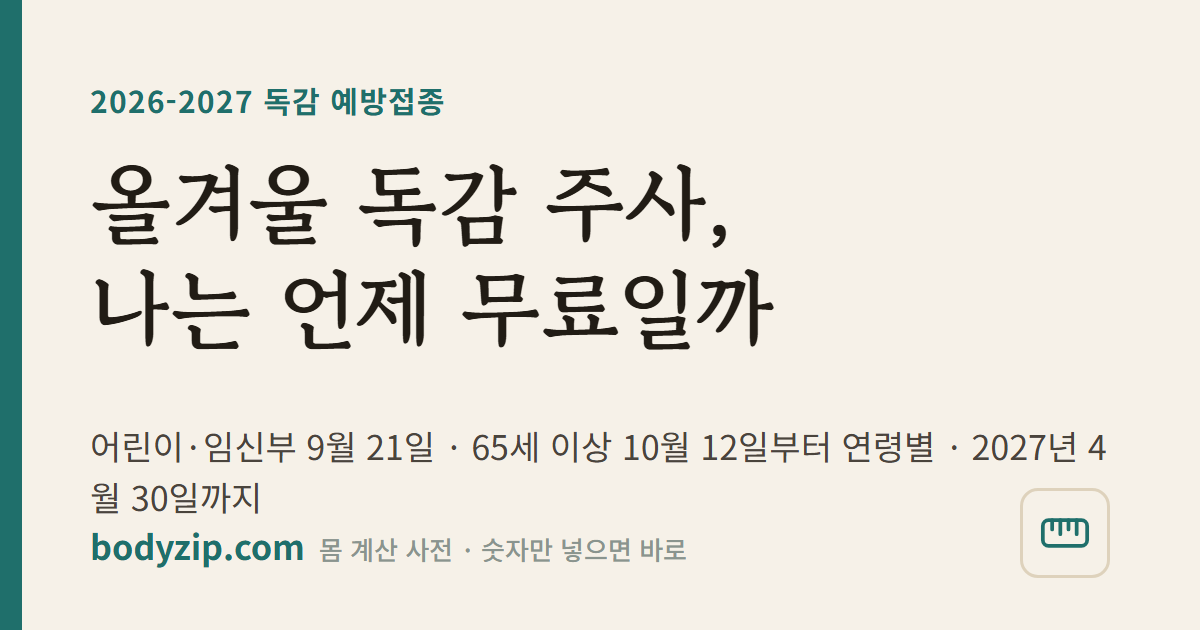
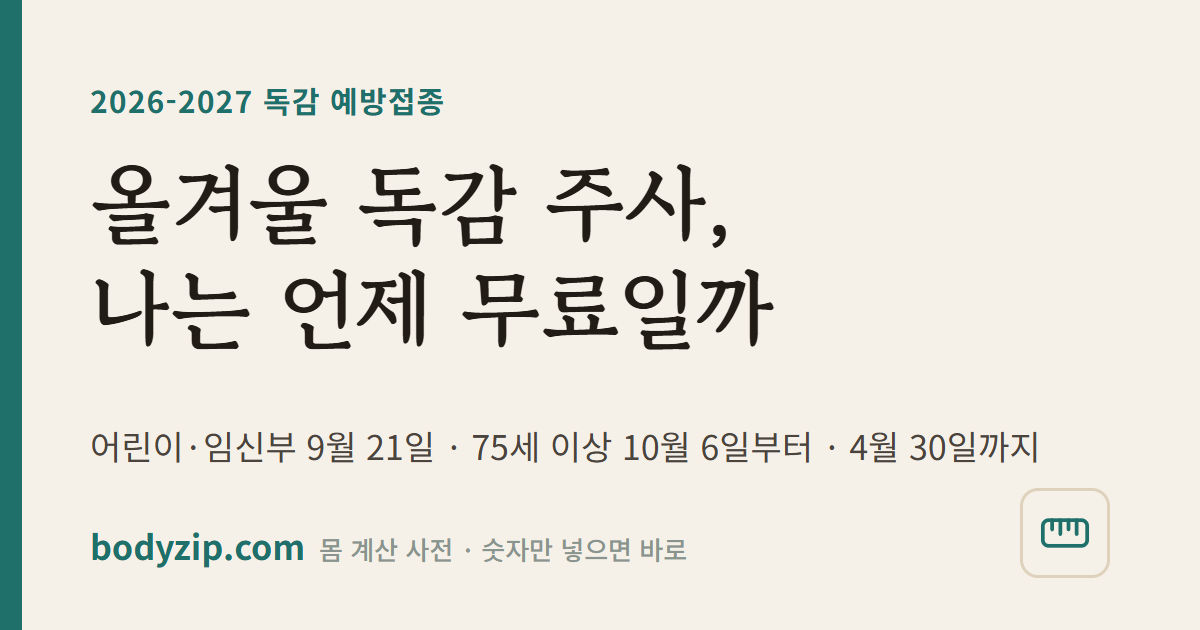
겨울 시즌 2 — 아기·어린이 정상 체온과 열 기준(/baby/temperature/) 새로 열고(잰 곳·나이·체온을 넣으면 정상·미열·열·바로 진료 — 대한소아청소년과학회 「소아 발열」의 직장 38℃ 발열·겨드랑이 37.3℃ 미열·38.0℃ 진찰·39.0℃ 고열·3개월 미만 열과 3~36개월 39℃ 이상, 서울대병원 「소아정상체온」의 직장 36.6~37.9℃ 정상·체온계 종류와 상관없이 37.8℃ 발열·35.5℃ 저체온, 응급실 신호는 서울아산병원 소아응급실 안내만, 재는 법·식약처 인증 체온계, 해열제는 /fever-medici

diff --git a/src/js/season.js b/src/js/season.js
@@ -1,4 +1,4 @@
-/* 철 페이지 계산 — [data-live="flu"] 독감 무료 대상·시작일, [data-live="checkup2026"] 올해 검진 대상·항목
+/* 철 페이지 계산 — [data-live="flu"] 독감 무료 대상·횟수·시작일, [data-live="checkup2026"] 올해 검진 대상·항목
  * 날짜·출생 범위는 tools/pages-season.mjs 의 FLU·CHK 와 같아야 한다 (해마다 함께 갱신). */
 (function () {
   function q(box, k) { return box.querySelector('[data-k="' + k + '"]'); }
@@ -14,42 +14,59 @@
 
   /* ---------- 독감 ---------- */
   var FLU = {
-    end: '2027-04-30', kidsFrom: '2012-01-01', kidsTo: '2026-08-31', kidsTwo: '2026-09-21', kidsOne: '2026-09-28', preg: '2026-09-21',
-    senior: [['75세 이상', '0000-00-00', '1951-12-31', '2026-10-12'], ['70~74세', '1952-01-01', '1956-12-31', '2026-10-15'], ['65~69세', '1957-01-01', '1961-12-31', '2026-10-19']],
-    covidStart: '2026-10-12', covidEnd: '2027-06-30'
+    end: '2027-04-30', kidsFrom: '2012-01-01', kidsTo: '2026-08-31', kidsStart: '2026-09-21', preg: '2026-09-21', onceBy: '2026.6.30',
+    senior: [['75세 이상', '0000-00-00', '1951-12-31', '2026-10-06'], ['70~74세', '1952-01-01', '1956-12-31', '2026-10-12'], ['65~69세', '1957-01-01', '1961-12-31', '2026-10-15']],
+    covid: { '75세 이상': '2026-10-12', '70~74세': '2026-10-12', '65~69세': '2026-10-15' }, covidEnd: '2027-06-30'
   };
+  function addMonthsIso(iso, n) {   /* 말일 넘침은 그 달 말일로 */
+    var p = iso.split('-').map(Number), y = p[0], m = p[1] - 1 + n, d = p[2];
+    y += Math.floor(m / 12); m = ((m % 12) + 12) % 12;
+    var last = new Date(Date.UTC(y, m + 1, 0)).getUTCDate();
+    return y + '-' + ('0' + (m + 1)).slice(-2) + '-' + ('0' + Math.min(d, last)).slice(-2);
+  }
   Array.prototype.forEach.call(document.querySelectorAll('[data-live="flu"]'), function (box) {
     bind(box, function () {
-      var b = q(box, 'birth').value, preg = q(box, 'preg').checked, today = todayIso();
-      if (!/^\d{4}-\d{2}-\d{2}$/.test(b)) { out(box, 'free', '—'); out(box, 'date', '—'); out(box, 'now', '—'); out(box, 'msg', '생년월일을 넣어 보세요.'); return; }
-      if (b > today) { out(box, 'free', '—'); out(box, 'date', '—'); out(box, 'now', '—'); out(box, 'msg', '아직 오지 않은 날짜입니다.'); return; }
-      var res = null, extra = '';
+      var b = q(box, 'birth').value, preg = q(box, 'preg').checked, hist = (q(box, 'hist') || {}).value || 'two', today = todayIso();
+      function blank(m) { out(box, 'free', '—'); out(box, 'date', '—'); out(box, 'doses', '—'); out(box, 'msg', m); }
+      if (!/^\d{4}-\d{2}-\d{2}$/.test(b)) { blank('생년월일을 넣어 보세요.'); return; }
+      if (b > today) { blank('아직 오지 않은 날짜입니다.'); return; }
+      var ended = today > FLU.end, tail = ended ? ' 이번 절기 무료 접종은 ' + dot(FLU.end) + '에 끝났습니다.' : '';
+      if (preg) {
+        out(box, 'free', '무료'); out(box, 'date', md(FLU.preg)); out(box, 'doses', '1회');
+        out(box, 'msg', '<b>임신부 (임신 주수와 관계없이)</b>: ' + md(FLU.preg) + '부터 ' + dot(FLU.end) + '까지 전국 위탁의료기관·보건소에서 무료. 산모수첩이나 임신확인서 같은 서류를 보여 주세요.' + tail);
+        return;
+      }
       if (b >= FLU.kidsFrom && b <= FLU.kidsTo) {
-        var nineAgo = (+today.slice(0, 4) - 9) + today.slice(4);   /* 오늘 기준 9세 미만 = 이 날짜 뒤 출생 */
-        var under9 = b > nineAgo;
-        res = { free: true, date: under9 ? FLU.kidsTwo : FLU.kidsOne, who: '어린이 (생후 6개월~14세, ' + dot(FLU.kidsFrom) + '~' + dot(FLU.kidsTo) + ' 출생)' };
-        extra = under9
-          ? ' 9세 미만이라 <b>올해 처음 맞거나 지금까지 1회만 맞았다면 4주 간격으로 2회</b>(' + md(FLU.kidsTwo) + '부터), 이미 두 번 이상 맞았다면 1회(' + md(FLU.kidsOne) + '부터)입니다.'
-          : ' 해마다 1회이며 ' + md(FLU.kidsOne) + '부터입니다.';
-      } else if (b > FLU.kidsTo) {
-        res = { free: false, who: '생후 6개월 미만' };
-        extra = ' 생후 6개월이 되기 전에는 독감 백신을 맞을 수 없습니다. 그동안은 엄마가 임신 중에 맞거나 함께 사는 어른들이 맞으면 아기를 지킬 수 있습니다. 6개월이 지나면 이번 절기(' + md(FLU.end) + '까지) 안에 무료로 맞을 수 있습니다.';
-      } else {
-        for (var i = 0; i < FLU.senior.length; i++) {
-          var g = FLU.senior[i];
-          if (b >= g[1] && b <= g[2]) {
-            res = { free: true, date: g[3], who: g[0] + ' (' + (g[1] === '0000-00-00' ? dot(g[2]) + ' 이전' : dot(g[1]) + '~' + dot(g[2])) + ' 출생)' };
-            extra = ' 코로나19 백신도 같은 날 함께 맞도록 권합니다(코로나19는 ' + md(FLU.covidStart) + '부터 ' + dot(FLU.covidEnd) + '까지).';
-            break;
-          }
+        var six = addMonthsIso(b, 6), start = six > FLU.kidsStart ? six : FLU.kidsStart;
+        var nineAgo = (+today.slice(0, 4) - 9) + today.slice(4), under9 = b > nineAgo;   /* 오늘 기준 9세 미만 = 이 날짜 뒤 출생 */
+        var two = under9 && hist !== 'two';
+        out(box, 'free', '무료'); out(box, 'date', start.slice(0, 4) === FLU.kidsStart.slice(0, 4) ? md(start) : dot(start)); out(box, 'doses', two ? '2회' : '1회');
+        var m = '<b>어린이 (생후 6개월~14세, ' + dot(FLU.kidsFrom) + '~' + dot(FLU.kidsTo) + ' 출생)</b>: ';
+        m += (six > FLU.kidsStart ? '생후 6개월이 되는 <b>' + dot(six) + '</b>부터' : md(FLU.kidsStart) + '부터') + ' ' + dot(FLU.end) + '까지 무료.';
+        if (two) m += ' 9세 미만이고 ' + (hist === 'one' ? FLU.onceBy + '까지 1회만 맞았으니' : '처음 맞거나 기록을 모르니') + ' <b>1개월 간격으로 2회</b>입니다. 두 번째는 첫 접종 1개월 뒤에 맞습니다.';
+        else if (under9) m += ' 이미 2회 이상 맞았다면 올해는 1회입니다.';
+        else m += ' 9세 이상은 해마다 1회입니다.';
+        m += ' 최종 횟수는 예진 의사가 정합니다.' + tail;
+        if (six > FLU.end) m = '<b>생후 6개월 미만</b>: 생후 6개월이 되는 ' + dot(six) + '은 이번 절기(' + dot(FLU.end) + '까지)가 끝난 뒤입니다. 다음 절기 일정은 질병관리청 발표를 확인하세요.';
+        out(box, 'msg', m);
+        if (six > FLU.end) { out(box, 'free', '—'); out(box, 'date', '—'); out(box, 'doses', '—'); }
+        return;
+      }
+      if (b > FLU.kidsTo) {
+        out(box, 'free', '대상 아님'); out(box, 'date', '—'); out(box, 'doses', '—');
+        out(box, 'msg', '<b>' + dot(FLU.kidsTo) + ' 뒤 출생</b>: 이번 절기 어린이 무료 접종은 ' + dot(FLU.kidsTo) + '까지 태어난 아이가 대상입니다. 독감 백신은 생후 6개월부터 맞을 수 있어, 그 전에는 함께 사는 가족이 맞아 두는 것이 방법입니다.');
+        return;
+      }
+      for (var i = 0; i < FLU.senior.length; i++) {
+        var g = FLU.senior[i];
+        if (b >= g[1] && b <= g[2]) {
+          out(box, 'free', '무료'); out(box, 'date', md(g[3])); out(box, 'doses', '1회');
+          out(box, 'msg', '<b>' + g[0] + ' (' + (g[1] === '0000-00-00' ? dot(g[2]) + ' 이전' : dot(g[1]) + '~' + dot(g[2])) + ' 출생)</b>: ' + md(g[3]) + '부터 ' + dot(FLU.end) + '까지 무료. 코로나19 백신(' + md(FLU.covid[g[0]]) + '부터 ' + dot(FLU.covidEnd) + '까지)도 한 번 방문으로 함께 맞도록 권합니다.' + tail);
+          return;
         }
       }
-      if (preg) { res = { free: true, date: FLU.preg, who: '임신부 (임신 주수와 관계없이)' }; extra = ' 산모수첩이나 임신확인서를 가져가세요. 엄마가 맞으면 생후 6개월 전 아기도 항체를 나눠 받습니다.'; }
-      if (!res) { res = { free: false, who: '15~64세 성인' }; extra = ' 국가 지원 대상이 아니라 비급여로 맞습니다. 값은 병원마다 다르고, 직장·학교 단체 접종이 싼 경우가 많습니다. 만성질환이 있거나 노부모·어린 아기와 함께 산다면 10~11월에 꼭 맞아 두세요.'; }
-      out(box, 'free', res.free ? '무료' : '비급여');
-      out(box, 'date', res.date ? md(res.date) : '—');
-      out(box, 'now', res.free ? (today >= res.date ? (today <= FLU.end ? '지금 가능' : '절기 끝') : '아직') : (res.date === undefined && res.who === '생후 6개월 미만' ? '나중에' : '언제든'));
-      out(box, 'msg', '<b>' + res.who + '</b>: ' + (res.free ? md(res.date) + '부터 ' + dot(FLU.end) + '까지 전국 위탁의료기관·보건소에서 무료.' : '') + extra);
+      out(box, 'free', '비급여'); out(box, 'date', '—'); out(box, 'doses', '1회');
+      out(box, 'msg', '<b>15~64세 (임신부 제외)</b>: 국가 무료 대상이 아니라 비급여로 맞습니다. 값은 병원마다 다릅니다. 만성질환(심장·폐 질환, 당뇨, 신장 기능 이상, 면역저하 등)이 있으면 질병관리청이 꼽는 합병증 위험군이니 접종을 의사와 상의하세요.');
     });
   });
 

diff --git a/src/js/live.js b/src/js/live.js
@@ -416,4 +416,17 @@
       if (msg) msg.innerHTML = mo < 3 ? '<b>생후 3개월 미만은 38℃ 이상이면 해열제보다 진료가 먼저입니다.</b> 바로 병원(응급실)으로 가세요.' : '병에 적힌 농도가 위와 같을 때만 mL 값을 쓰세요. 농도가 다르면 mg으로 설명서와 맞춰 보고, <b>제품 설명서의 용량이 우선</b>입니다.';
     });
   });
+
+  /* 아기·어린이 체온 — 잰 곳·나이·체온 → 정상/미열/열/바로 진료 (engine/temp.mjs, 대한소아청소년과학회·서울대병원 기준) */
+  Array.prototype.forEach.call(document.querySelectorAll('[data-live="temp"]'), function (box) {
+    if (!M.tempCheck) return;
+    bind(box, function () {
+      var raw = (q(box, 't') || {}).value || '', t = parseFloat(String(raw).replace(',', '.'));
+      var badge = box.querySelector('[data-out="label"]'), msg = box.querySelector('[data-out="msg"]');
+      if (!raw) { if (badge) { badge.textContent = '—'; badge.className = 'num'; } if (msg) msg.innerHTML = '잰 곳과 나이를 고르고 체온을 넣어 보세요.'; return; }
+      var r = M.tempCheck(t, sel(box, 'site'), sel(box, 'age'));
+      if (badge) { badge.textContent = r.label; badge.className = 'num temp-' + (r.key || 'none'); }
+      if (msg) msg.innerHTML = r.why;
+    });
+  });
 })();

diff --git a/src/css/style.css b/src/css/style.css
@@ -386,3 +386,8 @@ body.bare { background: transparent; }
 .cp-dyn .cp-dyn-slot { min-height: 140px; overflow: hidden; }
 .cp-dyn .cp-dyn-slot iframe { max-width: 100%; display: block; }
 .cp-dyn .cp-note { margin: 10px 0 0; font-size: 12px; opacity: .7; line-height: 1.6; }
+/* 아기 체온 판정 — 바로 진료·열은 산호색, 정상은 청록 */
+.tile .num.temp-normal { color: var(--green); }
+.tile .num.temp-mild { color: var(--gold); }
+.tile .num.temp-fever, .tile .num.temp-low { color: var(--gold); font-weight: 700; }
+.tile .num.temp-urgent { color: #fff; background: var(--gold); border-radius: 6px; padding: 1px 8px; font-weight: 700; display: inline-block; }
